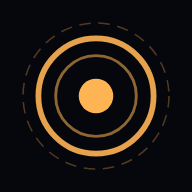
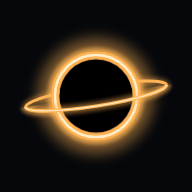
feat(brand): the program is now Cygnus, with a black-hole mark
Step 1 of CYGNUS_UI_PLAN.md (design approved by the owner).

- Name: page title, top-bar wordmark, input hint, Apps panel text, the
  home-screen manifest, the desktop window title, tray tooltip, Quit
  item, first-run notification and starting page. productName Cygnus,
  so Windows shows Cygnus too (dev profile moves to "Cygnus (dev)").
- Mark: black-hole tray icons (16 px and @2x, a still cut without glow
  so it reads at 16 px on dark and light taskbars) and home-screen
  icons (192/512).
- The desktop app now recognises the HUD by its shell element instead
  of its title, so branding changes cannot break attach mode.

Unchanged on purpose: the wake word is still "Jarvis" (hints that say
"Jarvis" stay), and "Chrome (JARVIS)" is the real name of that Chrome
shortcut.

Claude-Session: https://claude.ai/code/session_01LsGrLPvnJpBpYUXT45RZaq

diff --git a/apps_panel.html b/apps_panel.html
@@ -3,7 +3,7 @@
 <head>
 <meta charset="utf-8" />
 <meta name="viewport" content="width=device-width, initial-scale=1" />
-<title>JARVIS — Apps</title>
+<title>Cygnus — Apps</title>
 <style>
   :root {
     --bg: #0d0d11;
@@ -449,7 +449,7 @@
       <div class="top-row">
         <div class="title">
           <h1>Apps</h1>
-          <p>Installed apps, websites and capabilities JARVIS can act on</p>
+          <p>Installed apps, websites and capabilities Cygnus can act on</p>
         </div>
         <div class="spacer"></div>
         <div class="stats" aria-label="Summary">
@@ -527,7 +527,7 @@
     <div class="dr-body">
       <div id="app-secs">
       <section class="sec" id="sec-abilities">
-        <div class="sec-h"><h3>What JARVIS can do here</h3><span class="count" id="ab-count"></span>
+        <div class="sec-h"><h3>What Cygnus can do here</h3><span class="count" id="ab-count"></span>
           <button class="link-btn" id="ab-scan" title="Opens the app if needed, reads its buttons, then closes it again">Scan this app</button></div>
         <div class="progress" id="ab-progress" role="status" aria-live="polite" hidden>
           <div class="progress-bar"><span></span></div><div class="progress-text"></div>
@@ -538,14 +538,14 @@
       <section class="sec" id="sec-voice">
         <div class="sec-h">
           <h3>Voice Rule Setup</h3>
-          <span class="sub">Type a command, then tell JARVIS what it should do. JARVIS works out the rule with AI.</span>
+          <span class="sub">Type a command, then tell Cygnus what it should do. Cygnus works out the rule with AI.</span>
         </div>
         <div class="thread" id="v-thread"></div>
         <div class="progress" id="v-progress" role="status" aria-live="polite" hidden>
           <div class="progress-bar"><span></span></div><div class="progress-text"></div>
         </div>
         <div class="ask" id="v-clarify" hidden>
-          <div class="ask-top"><span class="who">JARVIS</span><span class="ask-state" id="v-state"></span></div>
+          <div class="ask-top"><span class="who">Cygnus</span><span class="ask-state" id="v-state"></span></div>
           <div class="v-question question"></div>
           <pre class="v-proposal proposal-text" hidden></pre>
           <div class="composer">
@@ -579,13 +579,13 @@
         <textarea class="drafts" id="drafts" spellcheck="false" placeholder="search movies in brave -> search hollymoviehd.cc for the name&#10;never play explicit tracks even if I ask"></textarea>
         <div class="btn-row">
           <button class="btn btn-sm" id="d-save">Save rules</button>
-          <button class="btn btn-sm btn-quiet" id="d-compile">Compile with JARVIS</button>
+          <button class="btn btn-sm btn-quiet" id="d-compile">Compile with Cygnus</button>
         </div>
         <div class="progress" id="d-progress" role="status" aria-live="polite" hidden>
           <div class="progress-bar"><span></span></div><div class="progress-text"></div>
         </div>
         <div class="proposal" id="proposal" hidden>
-          <div class="sec-h"><h3>JARVIS proposal</h3></div>
+          <div class="sec-h"><h3>Cygnus proposal</h3></div>
           <pre class="prop-body"></pre>
           <div class="prop-q"></div>
           <button class="btn btn-sm btn-primary" id="d-accept">Accept proposal</button>
@@ -721,7 +721,7 @@ async function loadApps() {
     const byKey = new Map(S.all.map(a => [a.key, a]));
     S.curated = (data.curated || data.apps || []).map(a => byKey.get(a.key) || a);
   } catch (e) {
-    S.error = "JARVIS didn't answer. Check that the server is running, then retry.";
+    S.error = "Cygnus didn't answer. Check that the server is running, then retry.";
   }
   S.loading = false;
   $("#refresh").classList.remove("spinning");
@@ -842,7 +842,7 @@ function rowHtml(a) {
       <span class="meta">${escapeHtml(metaOf(a))}</span>
     </button>
     <div class="aux">
-      ${(a.abilities || []).length ? `<span class="rules-chip" title="What JARVIS can do here">${(a.abilities || []).length} abilities</span>` : ""}
+      ${(a.abilities || []).length ? `<span class="rules-chip" title="What Cygnus can do here">${(a.abilities || []).length} abilities</span>` : ""}
       ${rules ? `<span class="rules-chip" title="Active rules">${svg("shield", 12)}${rules} rule${rules > 1 ? "s" : ""}</span>` : ""}
       ${k !== "app" || a.broken ? `<span class="pill ${st.cls}"${brokenWhy ? ` title="${escapeHtml(brokenWhy)}"` : ""}>${st.label}</span>` : ""}
     </div>
@@ -1034,7 +1034,7 @@ function renderInfo(a, k) {
     rows.push(["Tools", chips(a.tools || [])]);
     rows.push(["Runtime", escapeHtml(a.adapter || "local")]);
     rows.push(["Priority", escapeHtml(a.priority || 0)]);
-    note = "Capabilities are tasks JARVIS can delegate. They're listed for reference and can't be edited here.";
+    note = "Capabilities are tasks Cygnus can delegate. They're listed for reference and can't be edited here.";
   }
   $("#sec-info").innerHTML =
     `<div class="sec-h"><h3>Details</h3></div>` +
@@ -1061,7 +1061,7 @@ function renderCurrentRules(rules) {
   $("#rules-count").textContent = rules.length || "";
   $("#rules-clear").hidden = !rules.length;
   if (!rules.length) {
-    box.innerHTML = '<div class="empty-mini">No rules set yet. Describe one above and JARVIS will set it up.</div>';
+    box.innerHTML = '<div class="empty-mini">No rules set yet. Describe one above and Cygnus will set it up.</div>';
     return;
   }
   box.innerHTML = rules.map(r => `<div class="rule">
@@ -1165,7 +1165,7 @@ function say(who, text, tone) {
 
 function renderThread() {
   $("#v-thread").innerHTML = DR.thread.map(m =>
-    `<div class="bubble ${m.who} ${m.tone}">${m.who === "jarvis" ? '<span class="who">JARVIS</span>' : ""}` +
+    `<div class="bubble ${m.who} ${m.tone}">${m.who === "jarvis" ? '<span class="who">Cygnus</span>' : ""}` +
     `${escapeHtml(m.text)}</div>`).join("");
 }
 
@@ -1226,7 +1226,7 @@ async function voiceBegin(key, btn) {
   } catch (e) {}
   stop();
   setBusy(btn, false);
-  if (!res || !res.ok) { toast(d.error || "JARVIS couldn't read that rule", "err"); return; }
+  if (!res || !res.ok) { toast(d.error || "Cygnus couldn't read that rule", "err"); return; }
   input.value = "";
   say("user", phrase);
   voiceStep(d);
@@ -1376,7 +1376,7 @@ async function appsJob(url, body, label, btn) {
   } catch (e) {}
   stop();
   setBusy(btn, false);
-  if (!res || !res.ok) { toast(d.error || "That didn't work. Check that JARVIS is running.", "err"); return null; }
+  if (!res || !res.ok) { toast(d.error || "That didn't work. Check that Cygnus is running.", "err"); return null; }
   await loadApps();
   return d;
 }
@@ -1486,7 +1486,7 @@ async function renderShadow() {
   try {
     [d, p] = await Promise.all([fetch("/shadow/review").then(r => r.json()), fetch("/prefs").then(r => r.json())]);
   } catch (e) {
-    list.innerHTML = emptyState("Couldn't load shadow review", "JARVIS didn't answer. Check that the server is running.", "retry", "Retry");
+    list.innerHTML = emptyState("Couldn't load shadow review", "Cygnus didn't answer. Check that the server is running.", "retry", "Retry");
     return;
   }
   if (S.tab !== "shadow") return;
@@ -1500,26 +1500,26 @@ async function renderShadow() {
   let html = `<div class="sh-stats">
       <span><b>${s.turns || 0}</b> commands watched</span>
       <span><b>${s.agreed || 0}</b> same decision</span>
-      <span><b>${Math.round((s.agreement_where_old_right || 0) * 100)}%</b> agreement where JARVIS was right</span>
-      <span><b>${s.new_right || 0}</b> new router right · <b>${s.old_right || 0}</b> JARVIS right · <b>${s.both_wrong || 0}</b> both wrong</span>
+      <span><b>${Math.round((s.agreement_where_old_right || 0) * 100)}%</b> agreement where Cygnus was right</span>
+      <span><b>${s.new_right || 0}</b> new router right · <b>${s.old_right || 0}</b> Cygnus right · <b>${s.both_wrong || 0}</b> both wrong</span>
       <span><b>${s.unsafe || 0}</b> unsafe</span>
       <span>${readiness}</span>
     </div>
     <div class="sh-block"><h3>Learned defaults</h3>${prefs.length ? prefs.map(([topic, v]) =>
       `<div class="sh-pref"><span><b>${escapeHtml(topic)}</b> → ${escapeHtml([v.site, v.browser && "in " + v.browser, v.app].filter(Boolean).join(" "))}</span>
        <button class="btn btn-sm btn-quiet" data-forget="${escapeHtml(topic)}">Forget</button></div>`).join("")
-      : '<div class="empty-mini">None yet. After you use the same site or app for the same thing three times, JARVIS asks whether to make it the default.</div>'}</div>`;
+      : '<div class="empty-mini">None yet. After you use the same site or app for the same thing three times, Cygnus asks whether to make it the default.</div>'}</div>`;
   if (!items.length) {
-    html += '<div class="empty-mini">No disagreements yet. Use JARVIS as usual; every command is compared in the background.</div>';
+    html += '<div class="empty-mini">No disagreements yet. Use Cygnus as usual; every command is compared in the background.</div>';
   } else {
     html += items.map(x => {
       const btn = (v, label) => `<button class="btn btn-sm${x.verdict === v ? " is-chosen" : ""}" data-verdict="${v}" data-sid="${escapeHtml(x.id)}">${label}</button>`;
       return `<div class="sh-card">
         <div class="sh-row"><span>You said</span><span>“${escapeHtml(x.user)}”</span></div>
-        <div class="sh-row"><span>JARVIS did</span><span>${escapeHtml(describeRoute(x.actual))}${x.reply ? ` — “${escapeHtml(x.reply.slice(0, 140))}”` : ""}</span></div>
+        <div class="sh-row"><span>Cygnus did</span><span>${escapeHtml(describeRoute(x.actual))}${x.reply ? ` — “${escapeHtml(x.reply.slice(0, 140))}”` : ""}</span></div>
         <div class="sh-row"><span>New router would</span><span>${escapeHtml(describeRoute(x.decision))}${x.reason ? ` — ${escapeHtml(x.reason)}` : ""} <span class="muted">(${Math.round((x.confidence || 0) * 100)}% sure)</span></span></div>
         <div class="sh-row"><span>When</span><span>${escapeHtml(x.ts || "")}</span></div>
-        <div class="sh-verdicts">${btn("old", "JARVIS was right")}${btn("new", "New router was right")}${btn("neither", "Both wrong")}</div>
+        <div class="sh-verdicts">${btn("old", "Cygnus was right")}${btn("new", "New router was right")}${btn("neither", "Both wrong")}</div>
       </div>`;
     }).join("");
   }

diff --git a/jarvis_hud_v3.html b/jarvis_hud_v3.html
@@ -3,7 +3,7 @@
 <head>
 <meta charset="utf-8">
 <meta name="viewport" content="width=device-width, initial-scale=1, viewport-fit=cover, interactive-widget=resizes-content">
-<title>JARVIS HUD — Voice</title>
+<title>Cygnus</title>
 <link rel="manifest" href="/manifest.webmanifest">
 <meta name="theme-color" content="#05070c">
 <link rel="preconnect" href="https://fonts.googleapis.com">
@@ -714,7 +714,7 @@
 
   <div id="jv-shell">
     <header id="jv-topbar" style="grid-column: 1 / -1">
-      <span id="jv-brand">J.A.R.V.I.S.</span>
+      <span id="jv-brand">CYGNUS</span>
       <span id="jv-dot"></span>
       <span id="jv-status">BOOTING…</span>
       <span id="jv-level"><i></i></span>
@@ -725,7 +725,7 @@
       <span id="jv-actions" style="display:flex; gap:8px">
         <button id="jv-panels" class="jv-btn" type="button" aria-label="Panels" aria-controls="jv-drawer"
                 aria-expanded="false"><svg class="jv-ico" viewBox="0 0 24 24" aria-hidden="true"><rect x="3" y="4" width="18" height="16" rx="2"/><path d="M15 4v16"/></svg><span class="jv-btn-label">Panels</span><span id="jv-panels-badge" hidden></span></button>
-        <button id="jv-apps" class="jv-btn" type="button" aria-label="Apps" title="Apps JARVIS can open"><svg class="jv-ico" viewBox="0 0 24 24" aria-hidden="true"><rect x="3" y="3" width="7" height="7" rx="1.5"/><rect x="14" y="3" width="7" height="7" rx="1.5"/><rect x="3" y="14" width="7" height="7" rx="1.5"/><rect x="14" y="14" width="7" height="7" rx="1.5"/></svg><span class="jv-btn-label">Apps</span></button>
+        <button id="jv-apps" class="jv-btn" type="button" aria-label="Apps" title="Apps Cygnus can open"><svg class="jv-ico" viewBox="0 0 24 24" aria-hidden="true"><rect x="3" y="3" width="7" height="7" rx="1.5"/><rect x="14" y="3" width="7" height="7" rx="1.5"/><rect x="3" y="14" width="7" height="7" rx="1.5"/><rect x="14" y="14" width="7" height="7" rx="1.5"/></svg><span class="jv-btn-label">Apps</span></button>
         <span id="jv-desk-ctl" hidden><button id="jv-desk-expand" class="jv-btn" type="button" aria-label="Full HUD"
                 title="Full HUD">&#x2922;</button><button id="jv-desk-mini" class="jv-btn" type="button"
                 aria-label="Mini orb" title="Mini orb">&minus;</button></span>
@@ -780,7 +780,7 @@
         <div id="jv-cues" style="margin-top:8px"></div>
         <div id="jv-input-wrap" style="margin-top:10px">
           <input id="jv-input" type="text" autocomplete="off" spellcheck="false"
-                 placeholder="SPEAK TO J.A.R.V.I.S. - TYPE, THEN PRESS ENTER" />
+                 placeholder="SPEAK TO CYGNUS - TYPE, THEN PRESS ENTER" />
         </div>
       </div>
     </main>
@@ -831,7 +831,7 @@
 
   <button id="jv-talk" type="button" aria-label="Tap to talk">Talk</button>
 
-  <div id="jv-mini-orb" role="button" aria-label="Open JARVIS panel"></div>
+  <div id="jv-mini-orb" role="button" aria-label="Open Cygnus panel"></div>
 
   <div id="jv-drawer" role="dialog" aria-modal="true" aria-label="Panels">
     <div id="jv-drawer-card">
@@ -846,7 +846,7 @@
   <div id="jv-apps-modal">
     <div id="jv-apps-card">
       <div id="jv-apps-head">
-        <span id="jv-apps-title">JARVIS APPS</span>
+        <span id="jv-apps-title">CYGNUS APPS</span>
         <span id="jv-apps-count"></span>
         <button id="jv-apps-close" class="jv-btn">×</button>
       </div>
@@ -922,7 +922,7 @@
   var chatInput = document.getElementById('jv-input');
   var chatWrap = document.getElementById('jv-input-wrap');
   var rootStyle = document.documentElement.style;
-  var PLACEHOLDER = 'SPEAK TO J.A.R.V.I.S. - TYPE, THEN PRESS ENTER';
+  var PLACEHOLDER = 'SPEAK TO CYGNUS - TYPE, THEN PRESS ENTER';
   // Phones get tap-to-talk instead of the always-on wake listener (see #jv-talk).
   var IS_MOBILE = /Android|iPhone|iPad/i.test(navigator.userAgent) ||
                   (window.matchMedia && matchMedia('(pointer: coarse) and (max-width: 900px)').matches);
@@ -933,7 +933,7 @@
   var IS_DESKTOP = /\bElectron\//.test(navigator.userAgent);
   if ((IS_MOBILE || IS_DESKTOP) && talkBtn) talkBtn.classList.add('show');
   // The phone and the desktop panel are narrow; the long hint gets cut off.
-  if (IS_MOBILE || IS_DESKTOP) { PLACEHOLDER = 'TYPE TO JARVIS…'; chatInput.placeholder = PLACEHOLDER; }
+  if (IS_MOBILE || IS_DESKTOP) { PLACEHOLDER = 'TYPE TO CYGNUS…'; chatInput.placeholder = PLACEHOLDER; }
 
   // ---------------------------------------------------------------- hud link
   // The HUD artifact re-sets `--spd` on ITS OWN documentElement on every render,

diff --git a/desktop/main.js b/desktop/main.js
@@ -1,4 +1,4 @@
-// JARVIS desktop shell: a tray icon, Ctrl+Alt+J, and one window that switches
+// Cygnus desktop shell: a tray icon, Ctrl+Alt+J, and one window that switches
 // between a sticky panel, the full HUD and a mini orb (modelled on Sticky
 // Brain). The backend stays in the repo: this process starts, watches and
 // stops it, or attaches to one already running (ELECTRON_PLAN.md, phase 2
@@ -80,7 +80,8 @@ function probe () {
     const req = http.get(HUD_URL, { timeout: 1500 }, res => {
       let body = ''
       res.on('data', chunk => { if (body.length < 4096) body += chunk })
-      res.on('end', () => resolve(res.statusCode === 200 && body.includes('JARVIS HUD') ? 'jarvis' : 'other'))
+      // The HUD's own shell element, not its title: the title is branding.
+      res.on('end', () => resolve(res.statusCode === 200 && body.includes('id="jv-shell"') ? 'jarvis' : 'other'))
     })
     req.on('timeout', () => req.destroy())
     req.on('error', () => resolve('free'))
@@ -162,7 +163,7 @@ function onBackendExit (code) {
   }
   restartTimes.push(now)
   setBackend('starting', `The backend exited (code ${code}); starting it again.`)
-  showStatusPage('JARVIS stopped unexpectedly. Starting it again…')
+  showStatusPage('Cygnus stopped unexpectedly. Starting it again…')
   setTimeout(startBackend, 2000)
 }
 
@@ -170,7 +171,7 @@ function onBackendExit (code) {
 function startFresh () {
   restartTimes = []
   setBackend('starting')
-  showStatusPage('Starting JARVIS…')
+  showStatusPage('Starting Cygnus…')
   startBackend()
 }
 
@@ -201,7 +202,7 @@ async function restartBackend () {
   if (backend.attached) return
   stopBackend()
   setBackend('starting')
-  showStatusPage('Restarting JARVIS…')
+  showStatusPage('Restarting Cygnus…')
   await new Promise(resolve => setTimeout(resolve, 1000))
   await startBackend()
 }
@@ -285,7 +286,7 @@ function createWindow () {
     ...stickyBounds,
     minWidth: STICKY.minWidth,
     minHeight: STICKY.minHeight,
-    title: 'JARVIS',
+    title: 'Cygnus',
     frame: false,
     transparent: true,
     backgroundColor: '#00000000',
@@ -309,7 +310,7 @@ function createWindow () {
   // pet; quitting is a tray decision.
   win.on('close', event => { if (!quitting) { event.preventDefault(); setMode('mini') } })
   win.once('ready-to-show', () => { if (!startHidden) win.show() })
-  showStatusPage('Starting JARVIS…')
+  showStatusPage('Starting Cygnus…')
 }
 
 // The window only ever shows JARVIS. Other pages open in the default browser,
@@ -400,7 +401,7 @@ function buildTrayMenu () {
   const status = trayStatus()
   const warnings = checks || []
   const ready = backend.state === 'ready'
-  tray.setToolTip(`JARVIS (${status})${warnings.length ? `, ${warnings.length} warning(s)` : ''}${isDev ? ' [dev]' : ''}`)
+  tray.setToolTip(`Cygnus (${status})${warnings.length ? `, ${warnings.length} warning(s)` : ''}${isDev ? ' [dev]' : ''}`)
   tray.setContextMenu(Menu.buildFromTemplate([
     { label: status, enabled: false },
     ...warnings.map(w => ({ label: `⚠ ${w}`, enabled: false })),
@@ -418,7 +419,7 @@ function buildTrayMenu () {
     },
     { label: 'Open backend log', click: () => shell.openPath(LOG_FILE) },
     { type: 'separator' },
-    { label: 'Quit JARVIS', click: () => { quitting = true; app.quit() } }
+    { label: 'Quit Cygnus', click: () => { quitting = true; app.quit() } }
   ]))
 }
 
@@ -440,7 +441,7 @@ function showTrayHintOnce () {
   const marker = path.join(app.getPath('userData'), 'tray-hint-shown')
   if (fs.existsSync(marker)) return
   tray.displayBalloon({
-    title: 'JARVIS is running',
+    title: 'Cygnus is running',
     content: 'Ctrl+Alt+J opens the panel. The tray icon may be under the ^ arrow on the taskbar; drag it onto the taskbar to keep it visible.'
   })
   try {

diff --git a/desktop/starting.html b/desktop/starting.html
@@ -3,7 +3,7 @@
 <head>
 <meta charset="utf-8">
 <meta http-equiv="Content-Security-Policy" content="default-src 'none'; style-src 'unsafe-inline'; script-src 'unsafe-inline'">
-<title>JARVIS</title>
+<title>Cygnus</title>
 <style>
   html, body { margin: 0; height: 100%; background: #05070c; color: #ffd9a0;
     font: 600 13px/1.5 system-ui, sans-serif; -webkit-app-region: drag; }
@@ -17,9 +17,9 @@
 </style>
 </head>
 <body>
-  <div class="brand">J.A.R.V.I.S.</div>
+  <div class="brand">CYGNUS</div>
   <div class="dot"></div>
-  <div id="msg">Starting JARVIS…</div>
+  <div id="msg">Starting Cygnus…</div>
   <script>
     var msg = new URLSearchParams(location.search).get('msg');
     if (msg) document.getElementById('msg').textContent = msg;

diff --git a/jarvis_web.py b/jarvis_web.py
@@ -771,7 +771,7 @@ async def get_manifest():
     """Lets Android Chrome install the HUD to the home screen (standalone,
     no browser bar). Icons are served below."""
     return JSONResponse({
-        "name": "JARVIS", "short_name": "JARVIS", "start_url": "/",
+        "name": "Cygnus", "short_name": "Cygnus", "start_url": "/",
         "display": "standalone", "background_color": "#05070c",
         "theme_color": "#05070c",
         "icons": [{"src": "/icon-192.png", "sizes": "192x192", "type": "image/png",

diff --git a/CYGNUS_UI_PLAN.md b/CYGNUS_UI_PLAN.md
@@ -1,0 +1,44 @@
+# CYGNUS_UI_PLAN.md — the Cygnus look for the HUD, widget, phone and tray
+
+Status: approved 2026-09-12, in progress. Design:
+https://claude.ai/code/artifact/d25f561a-e279-4ef6-ae2f-8e38049b29a8 (version 2).
+
+## Decisions (owner, 2026-09-12)
+
+- The program is called **Cygnus**. The wake word stays **"Jarvis"** until the
+  owner decides otherwise (it lives in `wake_engine.py` `WAKE_WORDS` and the
+  HUD's `WAKE_WORDS`); on-screen hints keep saying "Jarvis". Python module and
+  repo names do not change.
+- **Black-hole mark** everywhere: tray icon (a small still cut), the mini orb
+  (animated), the top bar, the home-screen icons, and the centre of the full
+  HUD, where it **replaces the old animated orb** (`hud_artifact.html`).
+- **Widget 560 px tall** (was 720).
+- **Phone uses the widget design** (chat bar with mic, no TALK circle).
+
+## Steps (one commit each, checked at 380x560 widget, 400x860 phone, 1400x900 desktop)
+
+1. **Name and mark assets.** Cygnus in the title, top-bar wordmark, input hint,
+   manifest, tray tooltip, window title, first-run notification and starting
+   page. Black-hole tray icons (16/32) and home-screen icons (192/512).
+2. **Black hole replaces the old orb.** The `#hud` iframe stops loading
+   `/hud.html` (the element stays so the old overlay code, which already
+   tolerates an empty frame, keeps working). A black-hole stage fills the
+   centre; the mini orb becomes the animated black hole with state tempos.
+3. **Mic inside the chat bar.** Replaces the TALK circle everywhere: tap to
+   talk, tap to stop, Send while there is text, available while thinking.
+   Ctrl+Alt+J and the wake word unchanged.
+4. **Top bar in two groups.** Brand block (mark, wordmark, status) is the only
+   window drag handle; Panels and Apps in one group, full HUD and mini orb in
+   the window group. Fixes the Apps × that the drag strip swallowed.
+5. **Trimmed transcript.** Last exchange only, with "Show all N" / "Show less";
+   in the widget the expanded transcript takes the panel.
+6. **Panels as tabs** below 1100 px: Tasks, Music, Voice, System, Model, one
+   at a time, in a sheet under the top bar.
+7. **Apps inside the widget.** Opens under the top bar with back and close;
+   in `apps_panel.html` the four action buttons fold into a ⋯ menu when narrow.
+8. **Widget height 560** in `desktop/main.js`.
+
+## Not changing
+
+- Backend behaviour, wake word, voice, the phone's Tailscale setup.
+- The full HUD's side panels (they stay as columns at 1100 px and up).
